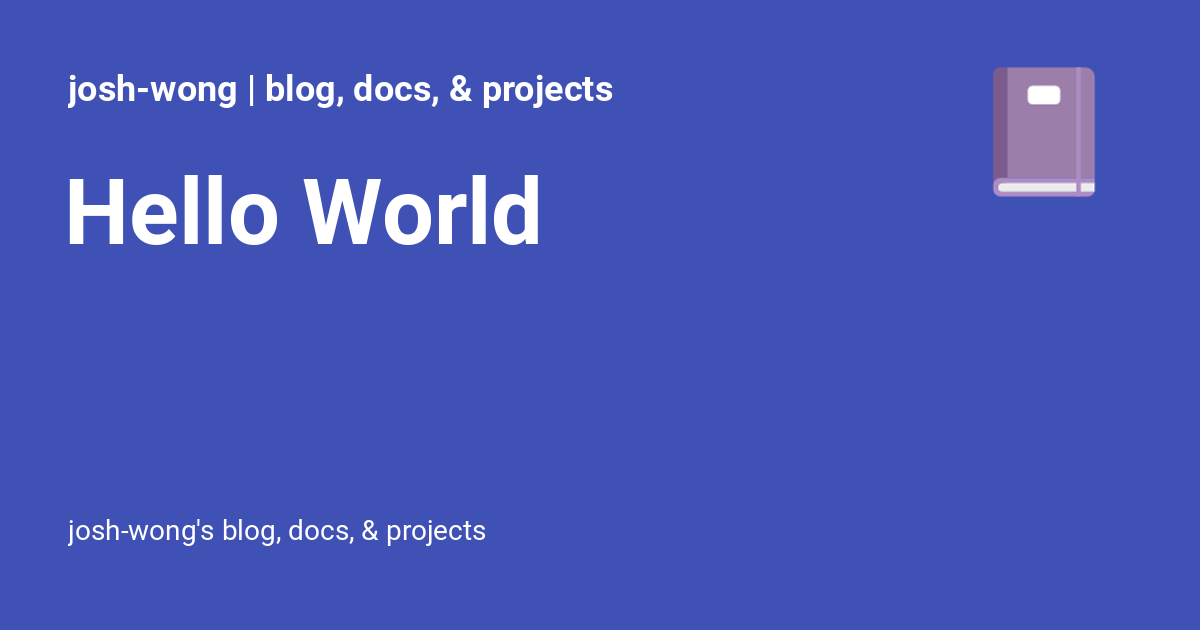
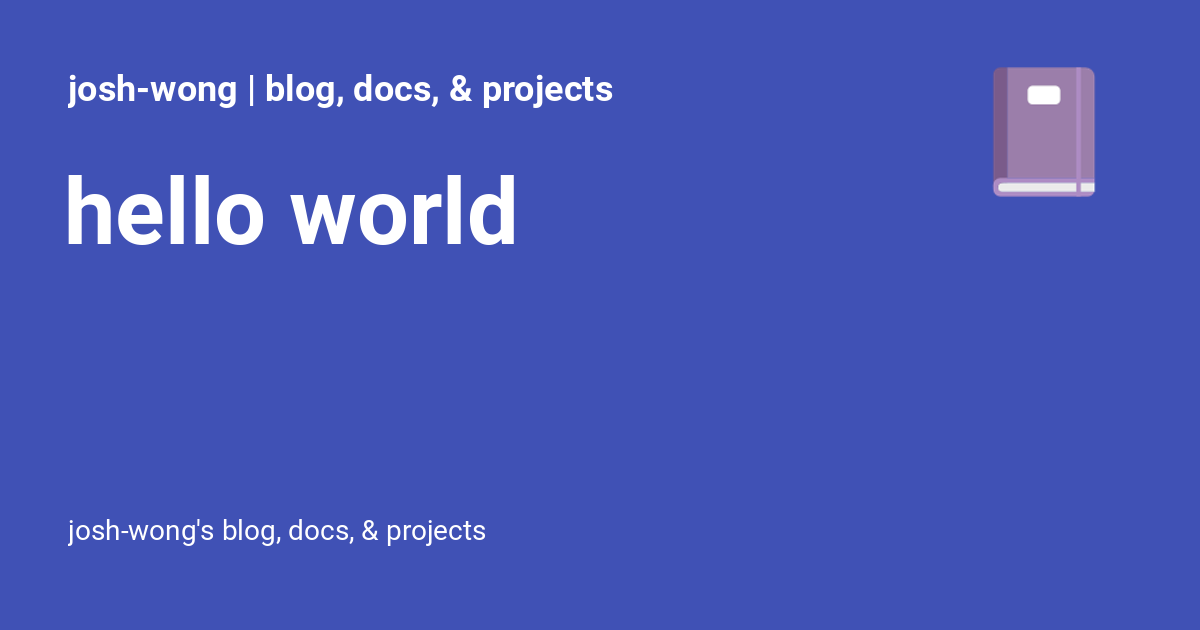
Deployed c2e5b60 with MkDocs version: 1.4.0

Changed region(s): [[0.0617, 0.2714, 0.4625, 0.3921]]

diff --git a/blog/category/hello-world/index.html b/blog/category/hello-world/index.html
@@ -24,7 +24,7 @@
     
     
       
-        <title>Hello World - josh-wong | blog, docs, & projects</title>
+        <title>hello world - josh-wong | blog, docs, & projects</title>
       
     
     
@@ -110,7 +110,7 @@
       
         <meta  property="og:type"  content="website" >
       
-        <meta  property="og:title"  content="Hello World - josh-wong | blog, docs, & projects" >
+        <meta  property="og:title"  content="hello world - josh-wong | blog, docs, & projects" >
       
         <meta  property="og:description"  content="josh-wong's blog, docs, & projects" >
       
@@ -126,7 +126,7 @@
       
         <meta  name="twitter:card"  content="summary_large_image" >
       
-        <meta  name="twitter:title"  content="Hello World - josh-wong | blog, docs, & projects" >
+        <meta  name="twitter:title"  content="hello world - josh-wong | blog, docs, & projects" >
       
         <meta  name="twitter:description"  content="josh-wong's blog, docs, & projects" >
       
@@ -187,7 +187,7 @@
         <div class="md-header__topic" data-md-component="header-topic">
           <span class="md-ellipsis">
             
-              Hello World
+              hello world
             
           </span>
         </div>
@@ -896,7 +896,7 @@
         
   
   <span class="md-ellipsis">
-    Hello World
+    hello world
     
   </span>
   
@@ -1018,7 +1018,7 @@
   <div class="md-content" data-md-component="content">
     <div class="md-content__inner">
       <header class="md-typeset">
-        <h1 id="hello-world">Hello World<a class="headerlink" href="#hello-world" title="Permanent link">&para;</a></h1>
+        <h1 id="hello-world">hello world<a class="headerlink" href="#hello-world" title="Permanent link">&para;</a></h1>
       </header>
       
         <article class="md-post md-post--excerpt">
@@ -1040,7 +1040,7 @@
           <li class="md-meta__item">
             in
             
-              <a href="./" class="md-meta__link">Hello World</a></li>
+              <a href="./" class="md-meta__link">hello world</a></li>
         
         
           

diff --git a/blog/category/japan/index.html b/blog/category/japan/index.html
@@ -887,7 +887,7 @@
         
   
   <span class="md-ellipsis">
-    Hello World
+    hello world
     
   </span>
   
@@ -1089,7 +1089,7 @@
     <nav class="md-footer__inner md-grid" aria-label="Footer" >
       
         
-        <a href="../hello-world/" class="md-footer__link md-footer__link--prev" aria-label="Previous: Hello World" rel="prev">
+        <a href="../hello-world/" class="md-footer__link md-footer__link--prev" aria-label="Previous: hello world" rel="prev">
           <div class="md-footer__button md-icon">
             <svg xmlns="http://www.w3.org/2000/svg" viewBox="0 0 24 24"><path d="M20 11v2H8l5.5 5.5-1.42 1.42L4.16 12l7.92-7.92L13.5 5.5 8 11h12Z"/></svg>
           </div>
@@ -1098,7 +1098,7 @@
               <span class="md-footer__direction">
                 Previous
               </span>
-              Hello World
+              hello world
             </div>
           </div>
         </a>

diff --git a/blog/index.html b/blog/index.html
@@ -887,7 +887,7 @@
         
   
   <span class="md-ellipsis">
-    Hello World
+    hello world
     
   </span>
   
@@ -1012,6 +1012,7 @@
       <header class="md-typeset">
         <h1 id="blog">✍🏻Blog<a class="headerlink" href="#blog" title="Permanent link">&para;</a></h1>
 <p>Thoughts and observations of a technical writer in Tokyo🗼🗾</p>
+<p><img alt="Blog banner - Cherry blossoms along a river" src="assets/assets/images/~blog-banner.jpg" /></p>
       </header>
       
         <article class="md-post md-post--excerpt">
@@ -1081,7 +1082,7 @@
           <li class="md-meta__item">
             in
             
-              <a href="category/hello-world/" class="md-meta__link">Hello World</a></li>
+              <a href="category/hello-world/" class="md-meta__link">hello world</a></li>
         
         
           

diff --git a/blog/category/health/index.html b/blog/category/health/index.html
@@ -897,7 +897,7 @@
         
   
   <span class="md-ellipsis">
-    Hello World
+    hello world
     
   </span>
   
@@ -1105,13 +1105,13 @@
       
       
         
-        <a href="../hello-world/" class="md-footer__link md-footer__link--next" aria-label="Next: Hello World" rel="next">
+        <a href="../hello-world/" class="md-footer__link md-footer__link--next" aria-label="Next: hello world" rel="next">
           <div class="md-footer__title">
             <div class="md-ellipsis">
               <span class="md-footer__direction">
                 Next
               </span>
-              Hello World
+              hello world
             </div>
           </div>
           <div class="md-footer__button md-icon">

diff --git a/blog/2022/10/hello-world/index.html b/blog/2022/10/hello-world/index.html
@@ -887,7 +887,7 @@
         
   
   <span class="md-ellipsis">
-    Hello World
+    hello world
     
   </span>
   
@@ -1058,7 +1058,7 @@
                     <span class="md-ellipsis">
                       in
                       
-                        <a href="../../../category/hello-world/">Hello World</a></span>
+                        <a href="../../../category/hello-world/">hello world</a></span>
                   </div>
                 </li>
               

diff --git a/blog/archive/2022/index.html b/blog/archive/2022/index.html
@@ -897,7 +897,7 @@
         
   
   <span class="md-ellipsis">
-    Hello World
+    hello world
     
   </span>
   
@@ -1088,7 +1088,7 @@
           <li class="md-meta__item">
             in
             
-              <a href="../../category/hello-world/" class="md-meta__link">Hello World</a></li>
+              <a href="../../category/hello-world/" class="md-meta__link">hello world</a></li>
         
         
           

diff --git a/404.html b/404.html
@@ -848,7 +848,7 @@
         
   
   <span class="md-ellipsis">
-    Hello World
+    hello world
     
   </span>
   

diff --git a/blog/2022/10/recap-of-the-2022-tell-21007-step-up-challenge/index.html b/blog/2022/10/recap-of-the-2022-tell-21007-step-up-challenge/index.html
@@ -887,7 +887,7 @@
         
   
   <span class="md-ellipsis">
-    Hello World
+    hello world
     
   </span>
   

diff --git a/blog/category/charity/index.html b/blog/category/charity/index.html
@@ -897,7 +897,7 @@
         
   
   <span class="md-ellipsis">
-    Hello World
+    hello world
     
   </span>
   

diff --git a/blog/category/exercise/index.html b/blog/category/exercise/index.html
@@ -897,7 +897,7 @@
         
   
   <span class="md-ellipsis">
-    Hello World
+    hello world
     
   </span>
   

diff --git a/donations/index.html b/donations/index.html
@@ -883,7 +883,7 @@
         
   
   <span class="md-ellipsis">
-    Hello World
+    hello world
     
   </span>
   

diff --git a/index.html b/index.html
@@ -885,7 +885,7 @@
         
   
   <span class="md-ellipsis">
-    Hello World
+    hello world
     
   </span>
   
